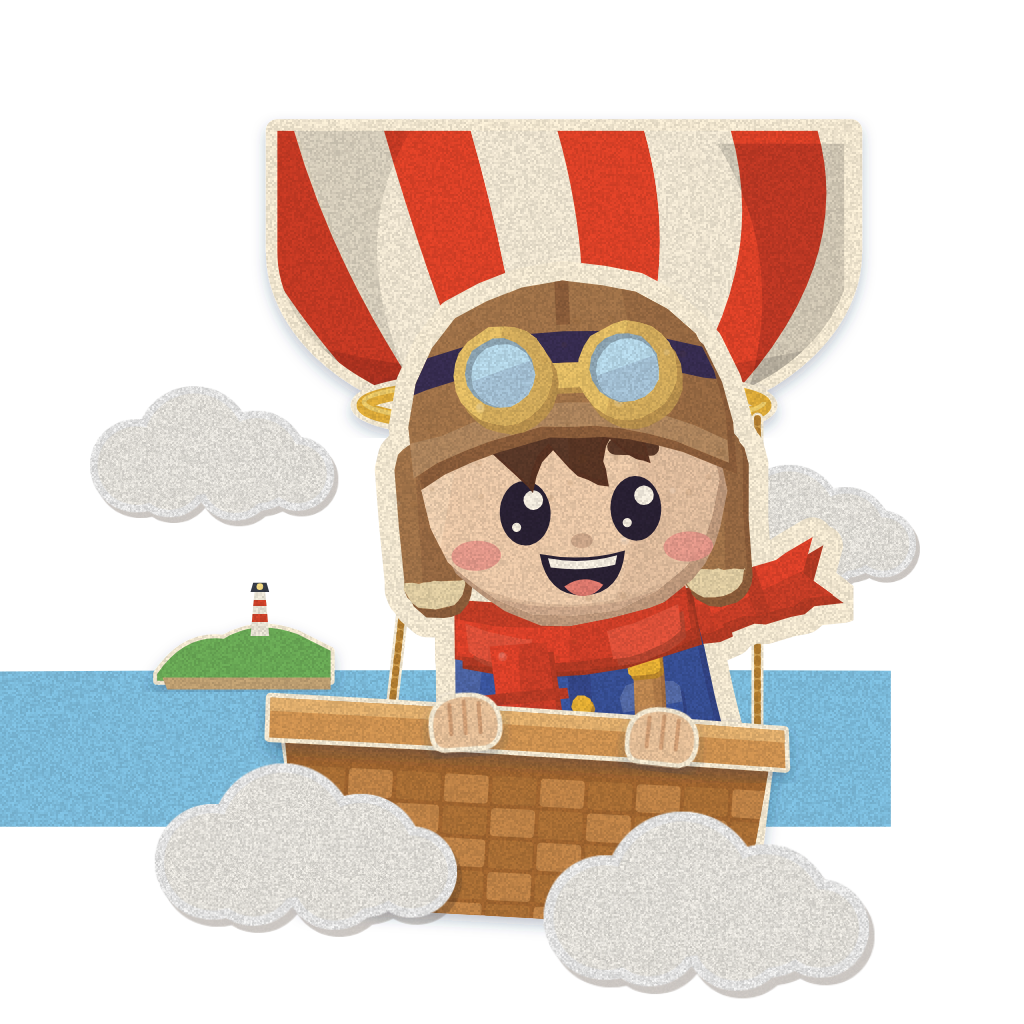
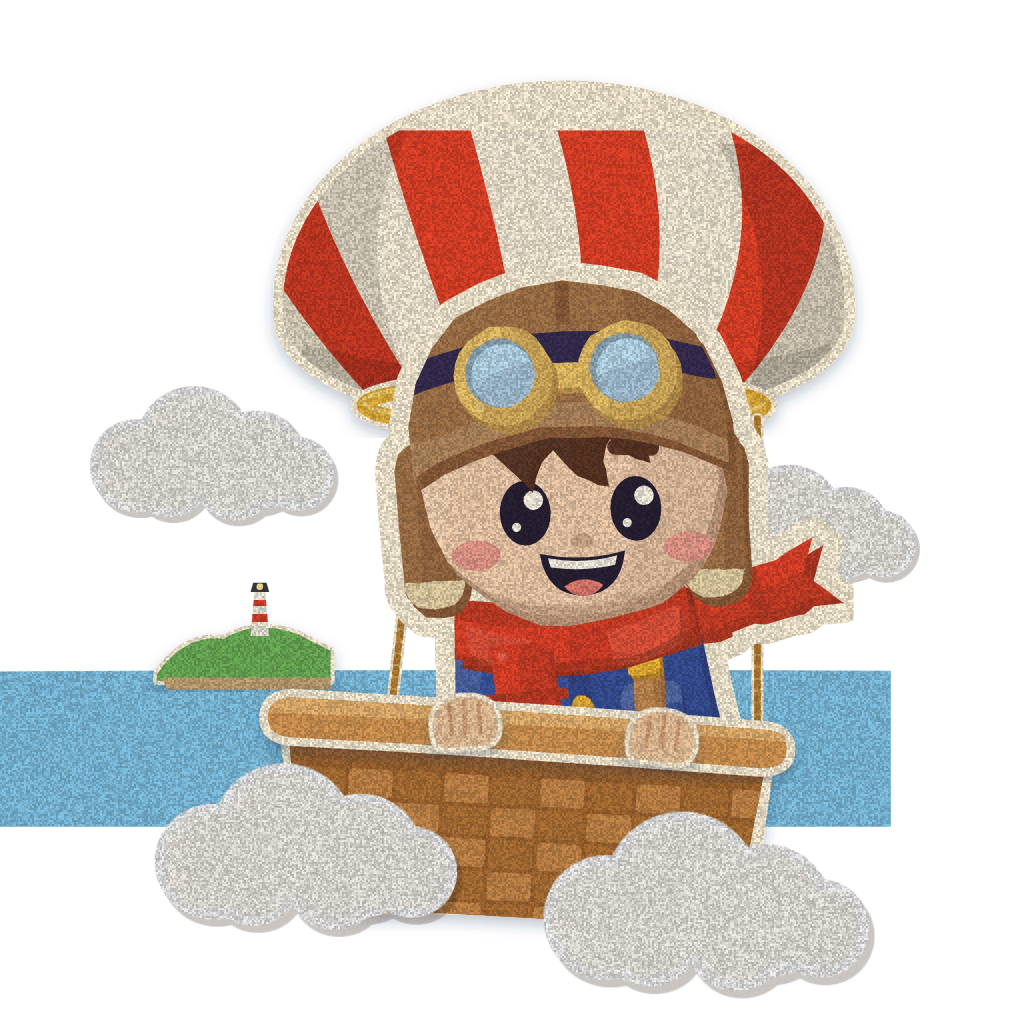
Ícono: globo con cúpula redonda (se ve curvo también en la esquina de iOS), borde crema parejo y canasta con bordes redondeados
Claude-Session: https://claude.ai/code/session_017FkcQpDzkf2gnNUK4w8AxS

diff --git a/scripts/iconos/portada.html b/scripts/iconos/portada.html
@@ -18,7 +18,7 @@ const sky=`<defs>
  <radialGradient id="sky" cx=".35" cy=".25" r=".9"><stop offset="0" stop-color="#A6E0F7"/><stop offset=".6" stop-color="#5DB0E0"/><stop offset="1" stop-color="#3E8FC8"/></radialGradient>
  <filter id="sh" x="-20%" y="-20%" width="140%" height="140%"><feDropShadow dx="0" dy="10" stdDeviation="10" flood-color="#173a5c" flood-opacity=".28"/></filter>
  <filter id="grain"><feTurbulence type="fractalNoise" baseFrequency=".9" numOctaves="2" seed="3"/><feColorMatrix values="0 0 0 0 0  0 0 0 0 0  0 0 0 0 0  0 0 0 .07 0"/><feComposite in2="SourceGraphic" operator="in"/></filter>
- <clipPath id="env"><path d="M160 -60 L1020 -60 L1020 120 C1020 250 880 340 770 356 L410 356 C300 340 160 250 160 120Z"/></clipPath>
+ <clipPath id="env"><path d="M170 230 C150 40 340 -120 590 -120 C840 -120 1030 40 1010 230 C995 300 880 345 770 358 L410 358 C300 345 185 300 170 230Z"/></clipPath>
 </defs><rect width="1024" height="1024" fill="url(#sky)"/>`;
 // isla lejana con faro (a lo lejos, abajo a la derecha)
 const island=`<g transform="translate(${L.ix??-820} ${L.iy??-40})">
@@ -31,7 +31,7 @@ const island=`<g transform="translate(${L.ix??-820} ${L.iy??-40})">
 // globo (sobre, recortado arriba) con gajos rojos y crema, aro dorado
 const gores=[[95,'#E8452C'],[230,'#FBF1DC'],[360,'#E8452C'],[490,'#FBF1DC'],[620,'#E8452C'],[750,'#FBF1DC'],[880,'#E8452C']];
 const env=`<g ${sh}>
- <path d="M160 -60 L1020 -60 L1020 120 C1020 250 880 340 770 356 L410 356 C300 340 160 250 160 120Z" fill="${CR}" stroke="${CR}" stroke-width="34" stroke-linejoin="round"/>
+ <path d="M170 230 C150 40 340 -120 590 -120 C840 -120 1030 40 1010 230 C995 300 880 345 770 358 L410 358 C300 345 185 300 170 230Z" fill="${CR}" stroke="${CR}" stroke-width="30" stroke-linejoin="round"/>
  <g clip-path="url(#env)">${gores.map(([x,f],i)=>`<path d="M${x-40} -60 Q${x+20} 150 ${x+(590-x)*.45} 360 L${x+130+(590-x-130)*.45} 360 Q${x+150} 150 ${x+90} -60Z" fill="${f}"/>`).join('')}
   <path d="M160 -60 L360 -60 Q250 120 380 360 L160 360Z" fill="#000" opacity=".10"/><path d="M820 -40 L1010 -40 L1010 352 L860 352 Q930 140 820 -40Z" fill="#000" opacity=".14"/>
   <path d="M200 260 Q590 360 990 260 L1020 370 L160 370Z" fill="#000" opacity=".12"/></g>
@@ -47,14 +47,14 @@ const scarf=`<g ${sh}>${cut('M470 690 Q360 640 250 650 Q170 655 90 610 L120 668 
 // canasta de mimbre
 const bx0=170,bx1=900,ry0=820,ry1=860;
 let weave='';for(let r=0;r<6;r++)for(let k=0;k<10;k++){const x=bx0+30+k*72,y=ry1+30+r*48;weave+=`<rect x="${x}" y="${y}" width="66" height="42" rx="6" fill="${(r+k)%2?'#C98A4B':'#B37538'}"/>`;}
-const basket=`<g ${sh}>
- <path d="M${bx0} ${ry0+10} L${bx1} ${ry1} L${bx1-30} 1100 L${bx0+40} 1100Z" fill="${CR}" stroke="${CR}" stroke-width="16" stroke-linejoin="round"/>
- <clipPath id="bk"><path d="M${bx0} ${ry0+10} L${bx1} ${ry1} L${bx1-30} 1100 L${bx0+40} 1100Z"/></clipPath>
- <g clip-path="url(#bk)" transform="rotate(3.2 ${bx0} ${ry0})"><rect x="0" y="${ry0}" width="1100" height="400" fill="#A86B33"/>${weave}</g>
-</g>
-<g ${sh}><path d="M${bx0-20} ${ry0-30} Q${(bx0+bx1)/2} ${ry0-10} ${bx1+20} ${ry1-20} L${bx1+22} ${ry1+36} Q${(bx0+bx1)/2} ${ry0+48} ${bx0-22} ${ry0+30}Z" fill="${CR}" stroke="${CR}" stroke-width="14" stroke-linejoin="round"/>
- <path d="M${bx0-20} ${ry0-30} Q${(bx0+bx1)/2} ${ry0-10} ${bx1+20} ${ry1-20} L${bx1+22} ${ry1+36} Q${(bx0+bx1)/2} ${ry0+48} ${bx0-22} ${ry0+30}Z" fill="#D99A55"/>
- <path d="M${bx0-20} ${ry0-30} Q${(bx0+bx1)/2} ${ry0-10} ${bx1+20} ${ry1-20} L${bx1+21} ${ry1-2} Q${(bx0+bx1)/2} ${ry0+10} ${bx0-21} ${ry0-10}Z" fill="#EDB873"/></g>`;
+const basket=(()=>{const L0=bx0,R0=bx1,T0=ry0,T1=ry1,rad=34;
+ const body=`M${L0+6} ${T0+10} L${R0-6} ${T1} L${R0-34} 1060 Q${R0-38} 1100 ${R0-80} 1100 L${L0+86} 1100 Q${L0+44} 1100 ${L0+40} 1060Z`;
+ const rim=`M${L0-20+rad} ${T0-30} Q${(L0+R0)/2} ${T0-10} ${R0+20-rad} ${T1-22} Q${R0+24} ${T1-20} ${R0+24} ${T1+8} Q${R0+24} ${T1+36} ${R0+20-rad} ${T1+36} Q${(L0+R0)/2} ${T0+48} ${L0-20+rad} ${T0+30} Q${L0-24} ${T0+28} ${L0-24} ${T0} Q${L0-24} ${T0-30} ${L0-20+rad} ${T0-30}Z`;
+ const rimHi=`M${L0-20+rad} ${T0-30} Q${(L0+R0)/2} ${T0-10} ${R0+20-rad} ${T1-22} Q${R0+22} ${T1-20} ${R0+23} ${T1-4} Q${(L0+R0)/2} ${T0+10} ${L0-22} ${T0-8} Q${L0-22} ${T0-30} ${L0-20+rad} ${T0-30}Z`;
+ return `<g ${sh}><path d="${body}" fill="${CR}" stroke="${CR}" stroke-width="30" stroke-linejoin="round"/>
+ <clipPath id="bk"><path d="${body}"/></clipPath>
+ <g clip-path="url(#bk)" transform="rotate(3.2 ${L0} ${T0})"><rect x="0" y="${T0}" width="1100" height="400" fill="#A86B33"/>${weave}</g></g>
+ <g ${sh}><path d="${rim}" fill="${CR}" stroke="${CR}" stroke-width="26" stroke-linejoin="round"/><path d="${rim}" fill="#D99A55"/><path d="${rimHi}" fill="#EDB873"/></g>`;})();
 // manos sobre el borde
 const hand=(x,y,r)=>`<g transform="translate(${x} ${y}) rotate(${r})" ${sh}>${cut('M-46 10 Q-50 -34 -8 -40 Q44 -44 50 -6 Q54 28 30 34 L-30 34 Q-46 32 -46 10Z','#F1C9A0',14)}
  <path d="M-20 -30 L-20 14 M2 -34 L2 14 M24 -30 L24 14" stroke="#D9A57A" stroke-width="6" stroke-linecap="round"/></g>`;
